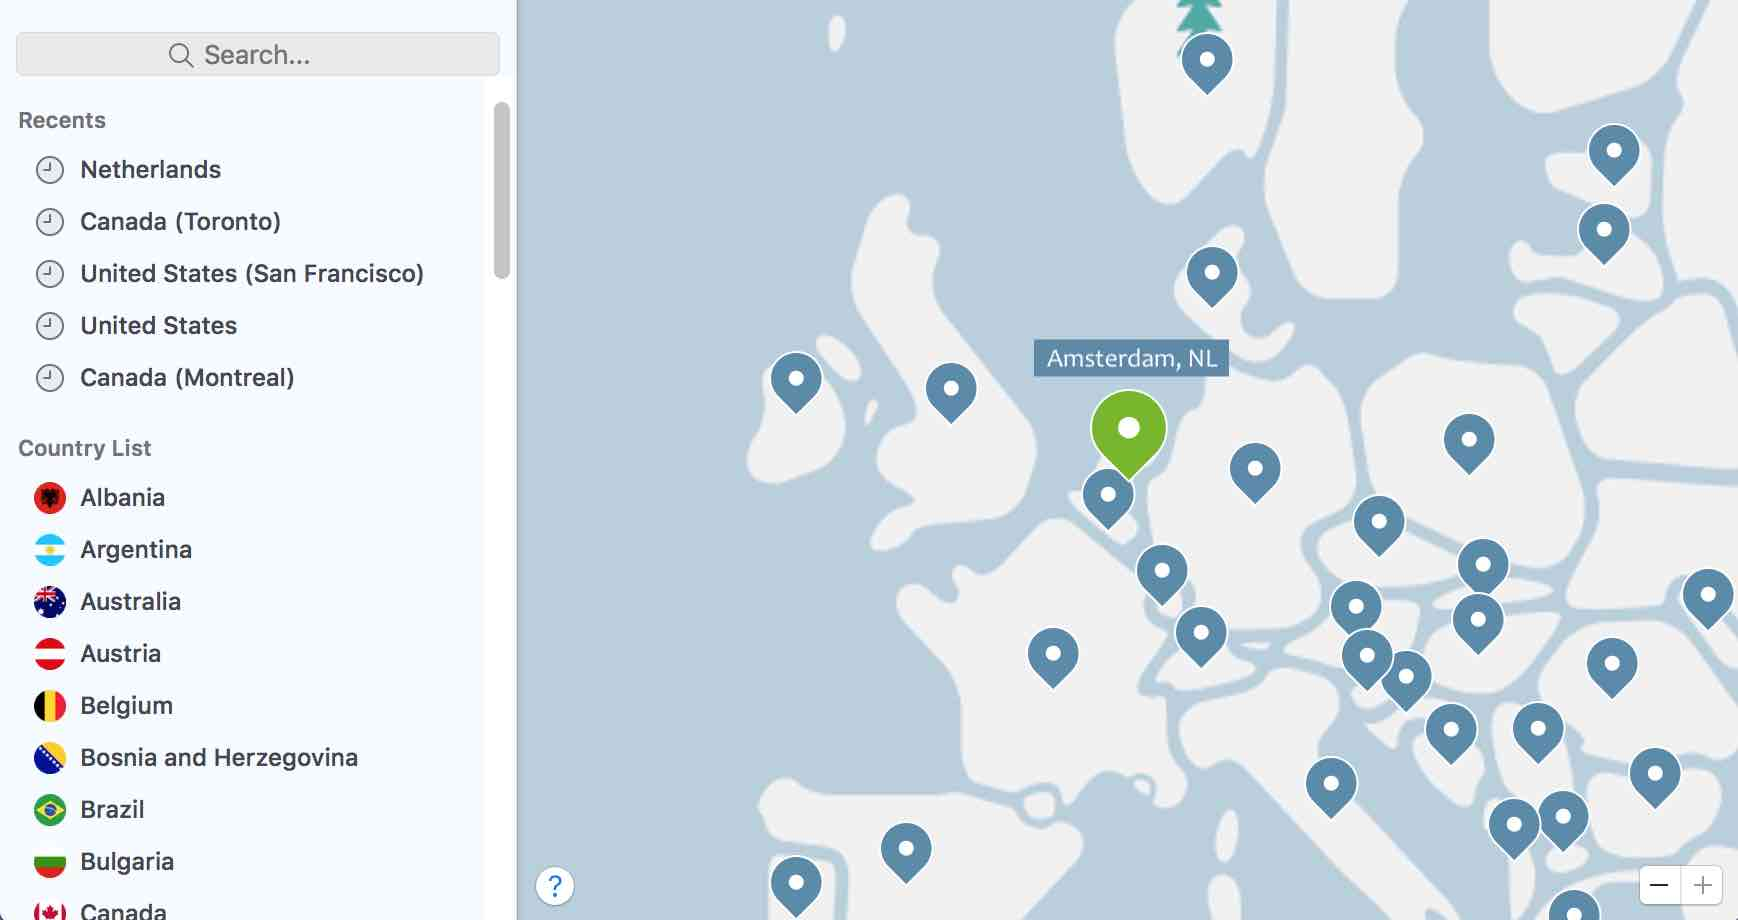
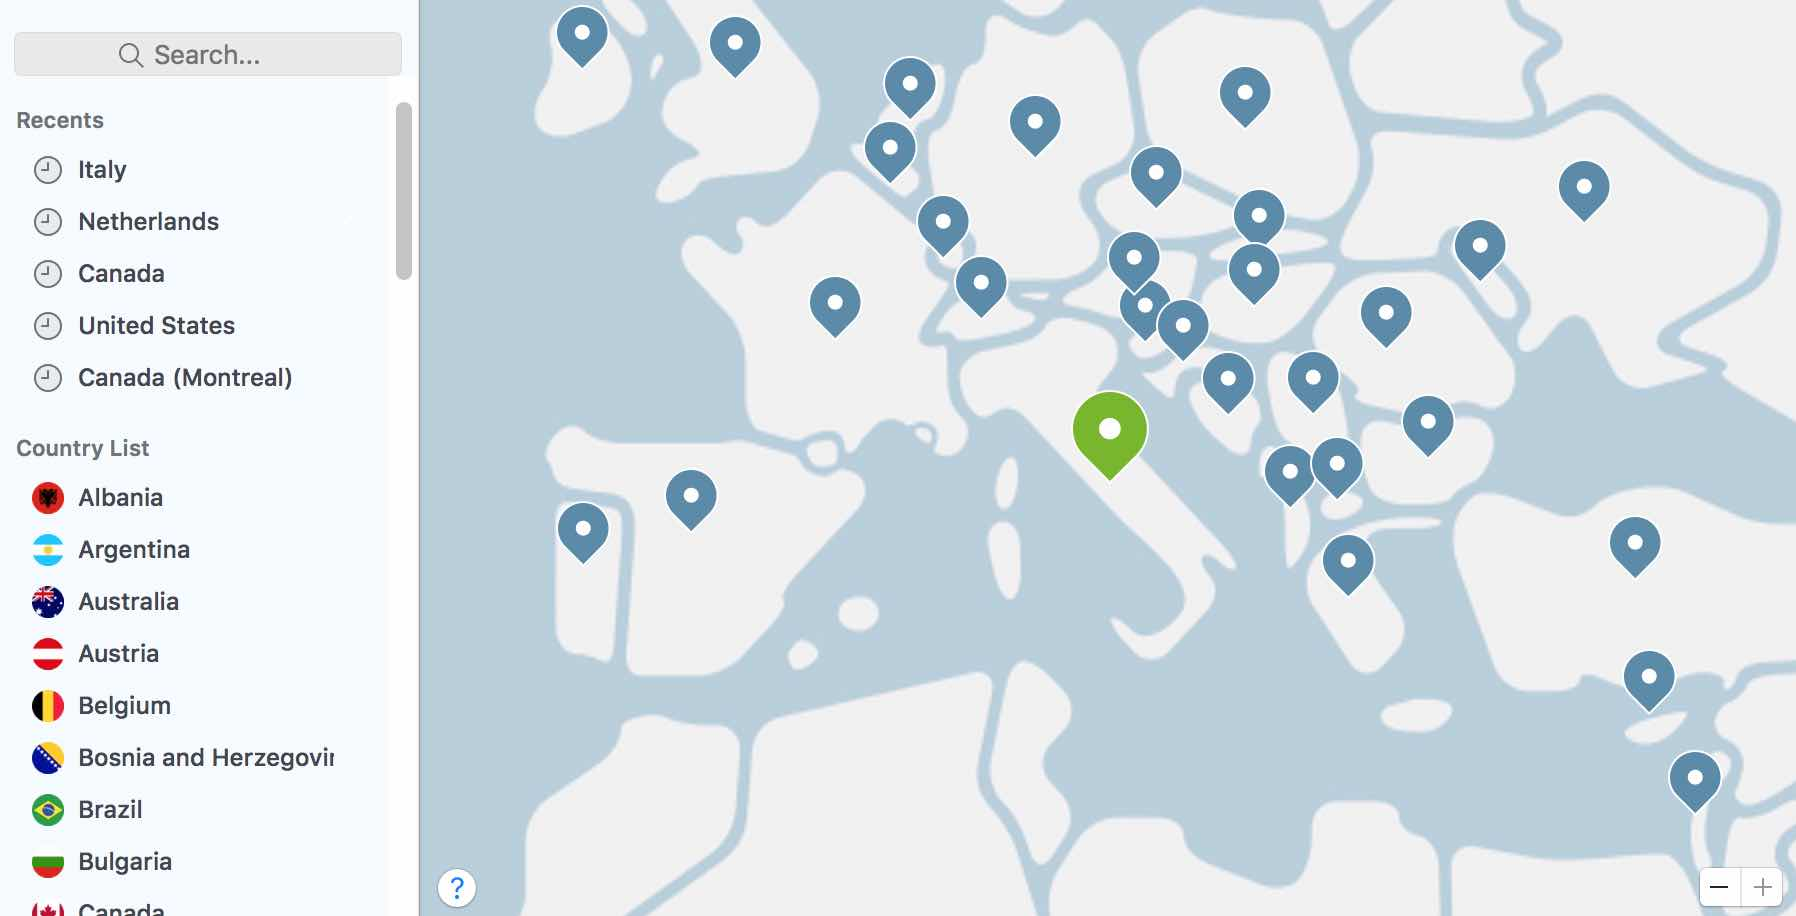
updated to firenze

diff --git a/client/src/components/windows/Vpn.js b/client/src/components/windows/Vpn.js
@@ -6,13 +6,13 @@ function Vpn({ vpn, setVpn }) {
   return (
     <div className="vpn">
       <BrowserFrame
-        url="Currently://Amsterdam, The Netherlands"
+        url="Currently:// Firenze, Toscana, Italy"
         visible={vpn}
         setVisible={setVpn}
       >
         <img
           src={map}
-          alt="my location: Amsterdam"
+          alt="my location: Florence Italy"
           width="710px"
           height="380px"
         />

diff --git a/README.md b/README.md
@@ -1,4 +1,5 @@
 ## Roadmap
+
 - [ ] Add Projects Folder
 - [ ] Add Experience Folder (see don.gg) w/ clickable icons to open up details in another window
 - [ ] Make components draggable
@@ -9,15 +10,15 @@
 - [x] Change tab logo to [WX]
 - [ ] Obtain feedback and suggestions for personal site
 - [ ] ~~Make GitHub page interactive~~ --> demoing projects through terminal react
-- [ ] Change Firefox (not link interactive) to include an iframe of some sort 
-- [x] Add Github Desktop to Dock 
+- [ ] Change Firefox (not link interactive) to include an iframe of some sort
+- [x] Add Github Desktop to Dock
 - [ ] Incorporate art-resume and work-resume
 - [ ] Incorporate "currently-doing" creatively
 - [ ] Add writing page
 - [ ] Get feedback on landing page (nothing or yes)
 - [ ] Update Bohemian Life w articles and about me page
 - [ ] Fix tabs z-index problems (should be flexible)
-- [ ] Update current location to Firenze
+- [x] Update current location to Firenze
 - [ ] Brainstorm details and concept of exhibit (name, idea, medium, curation)
 - [ ] Complete primary rendition of exhibit
 - [x] Work on sketches
@@ -37,26 +38,21 @@
 - [x] Add Desktop background
 - [x] Speed up loading of images
 
-
-
 ## v1.2 (KP Fellowship)
 
 - Demonstrate a cohesive spike in arts x technology
 
-
-
 ## v1.1
 
-1. Protected writing section (writings.winnay.com) 
+1. Protected writing section (writings.winnay.com)
 
    - "Use password or hack me ;]"
+
 2. Making window components draggable (/ closable)
 3. Populating dock functions
 4. Add preview to reopen windows
 5. Add features to react-browser-frame
 6. Incorporate react-tetris as dock component
-
-
 
 ## v1.0
 
@@ -64,13 +60,11 @@
    - Email Me
    - Spotify
    - VPN, my current location
-2. Curated exhibition 
+2. Curated exhibition
    - Need to think of focus
 3. Loading page (analogous to Mac)
 4. Adding classic / customised Desktop background
-5. Speed up the loading of images 
-
- 
+5. Speed up the loading of images
 
 ## Content of the site
 
